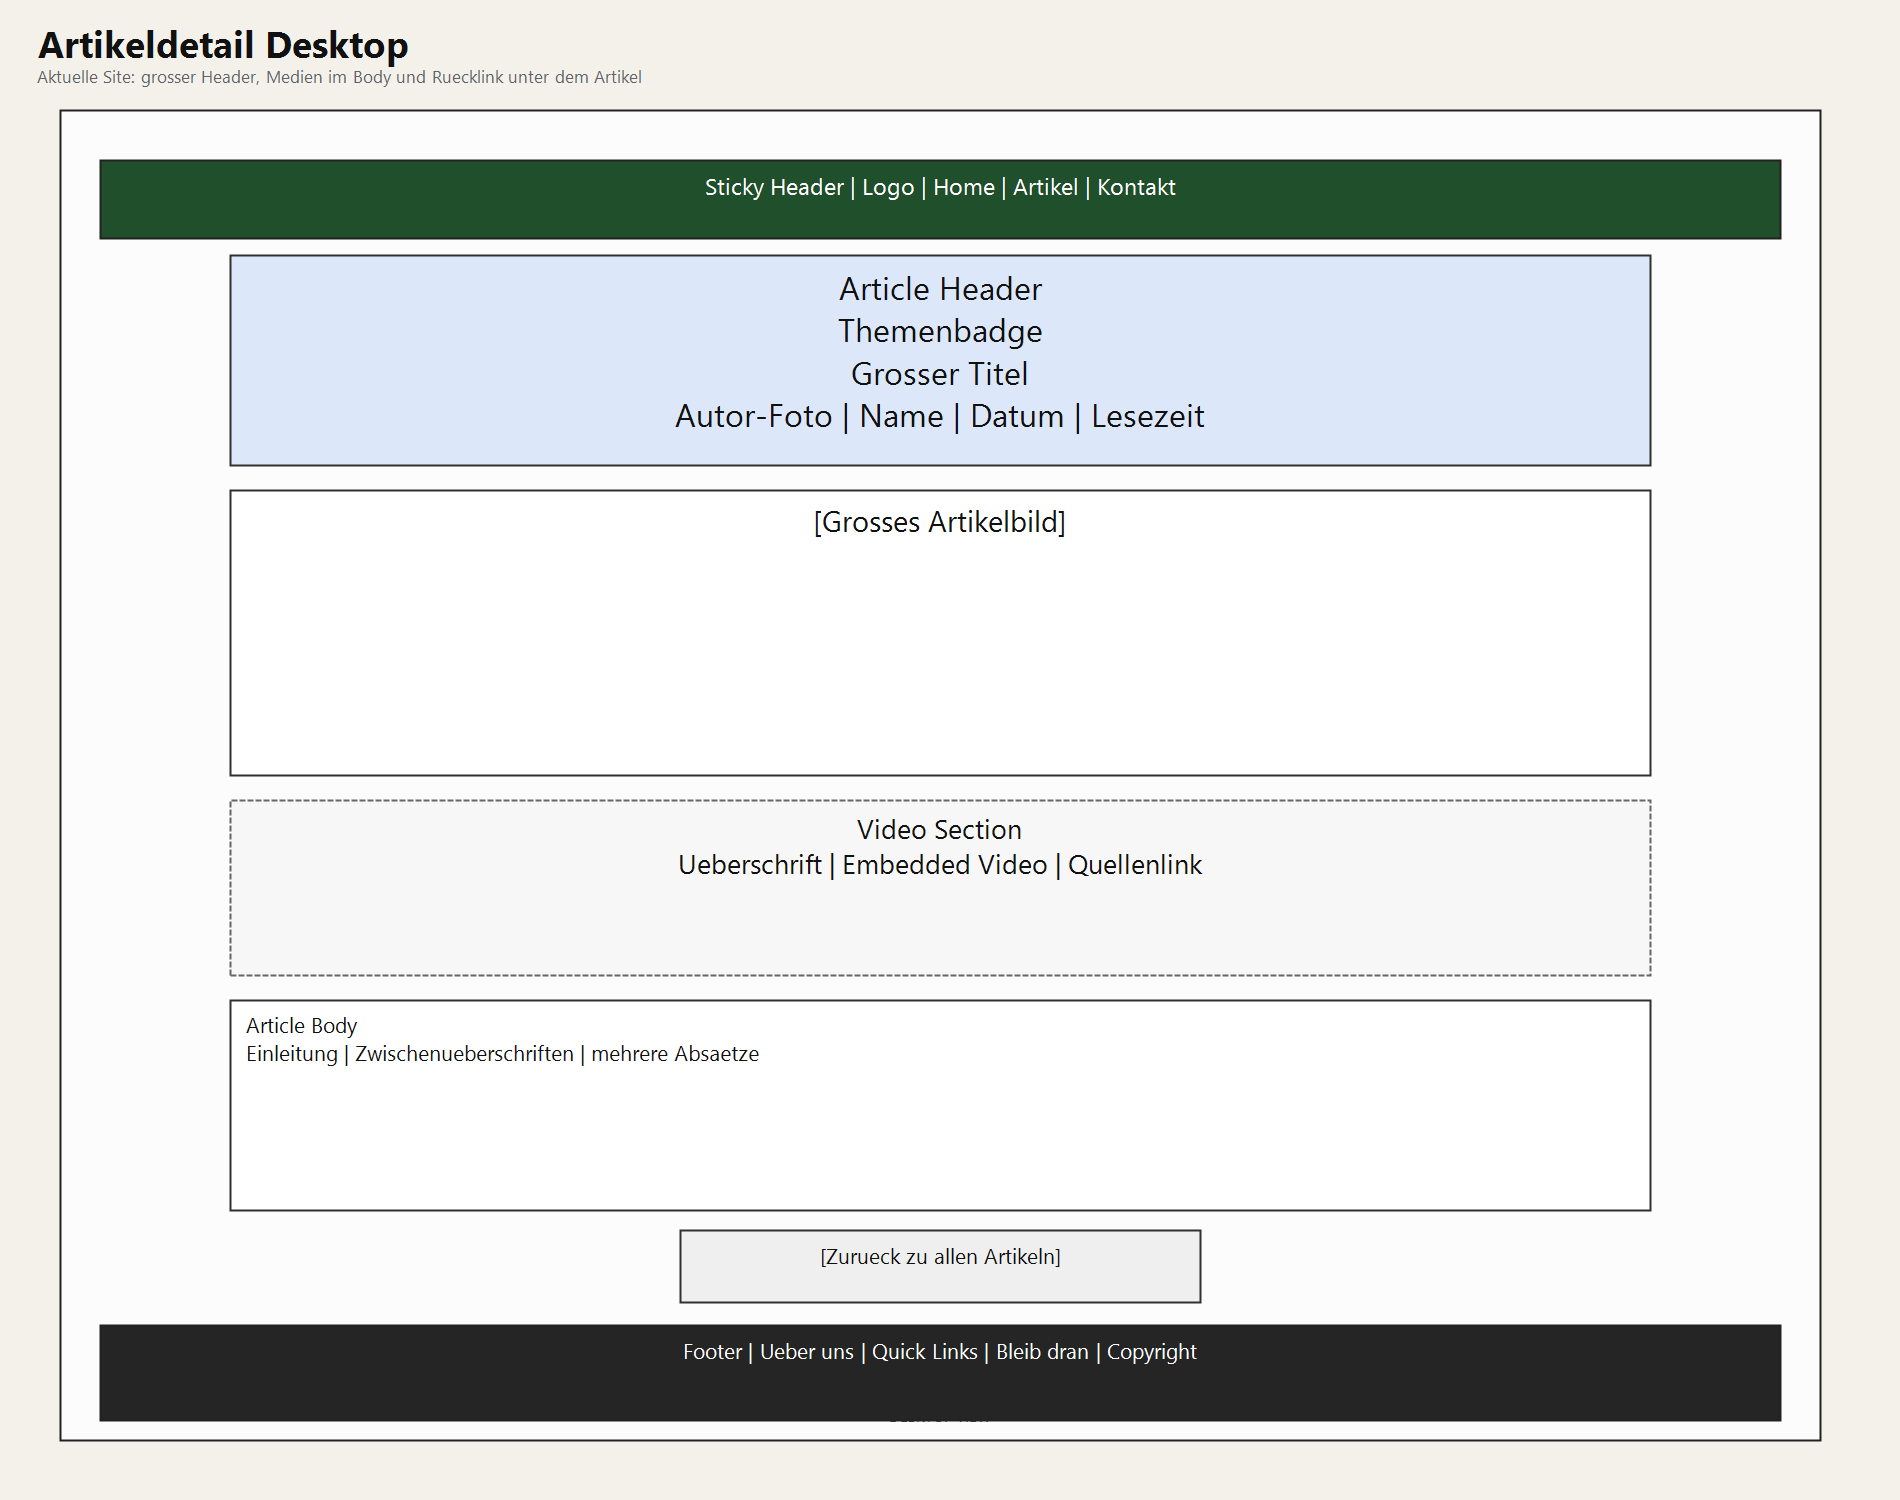
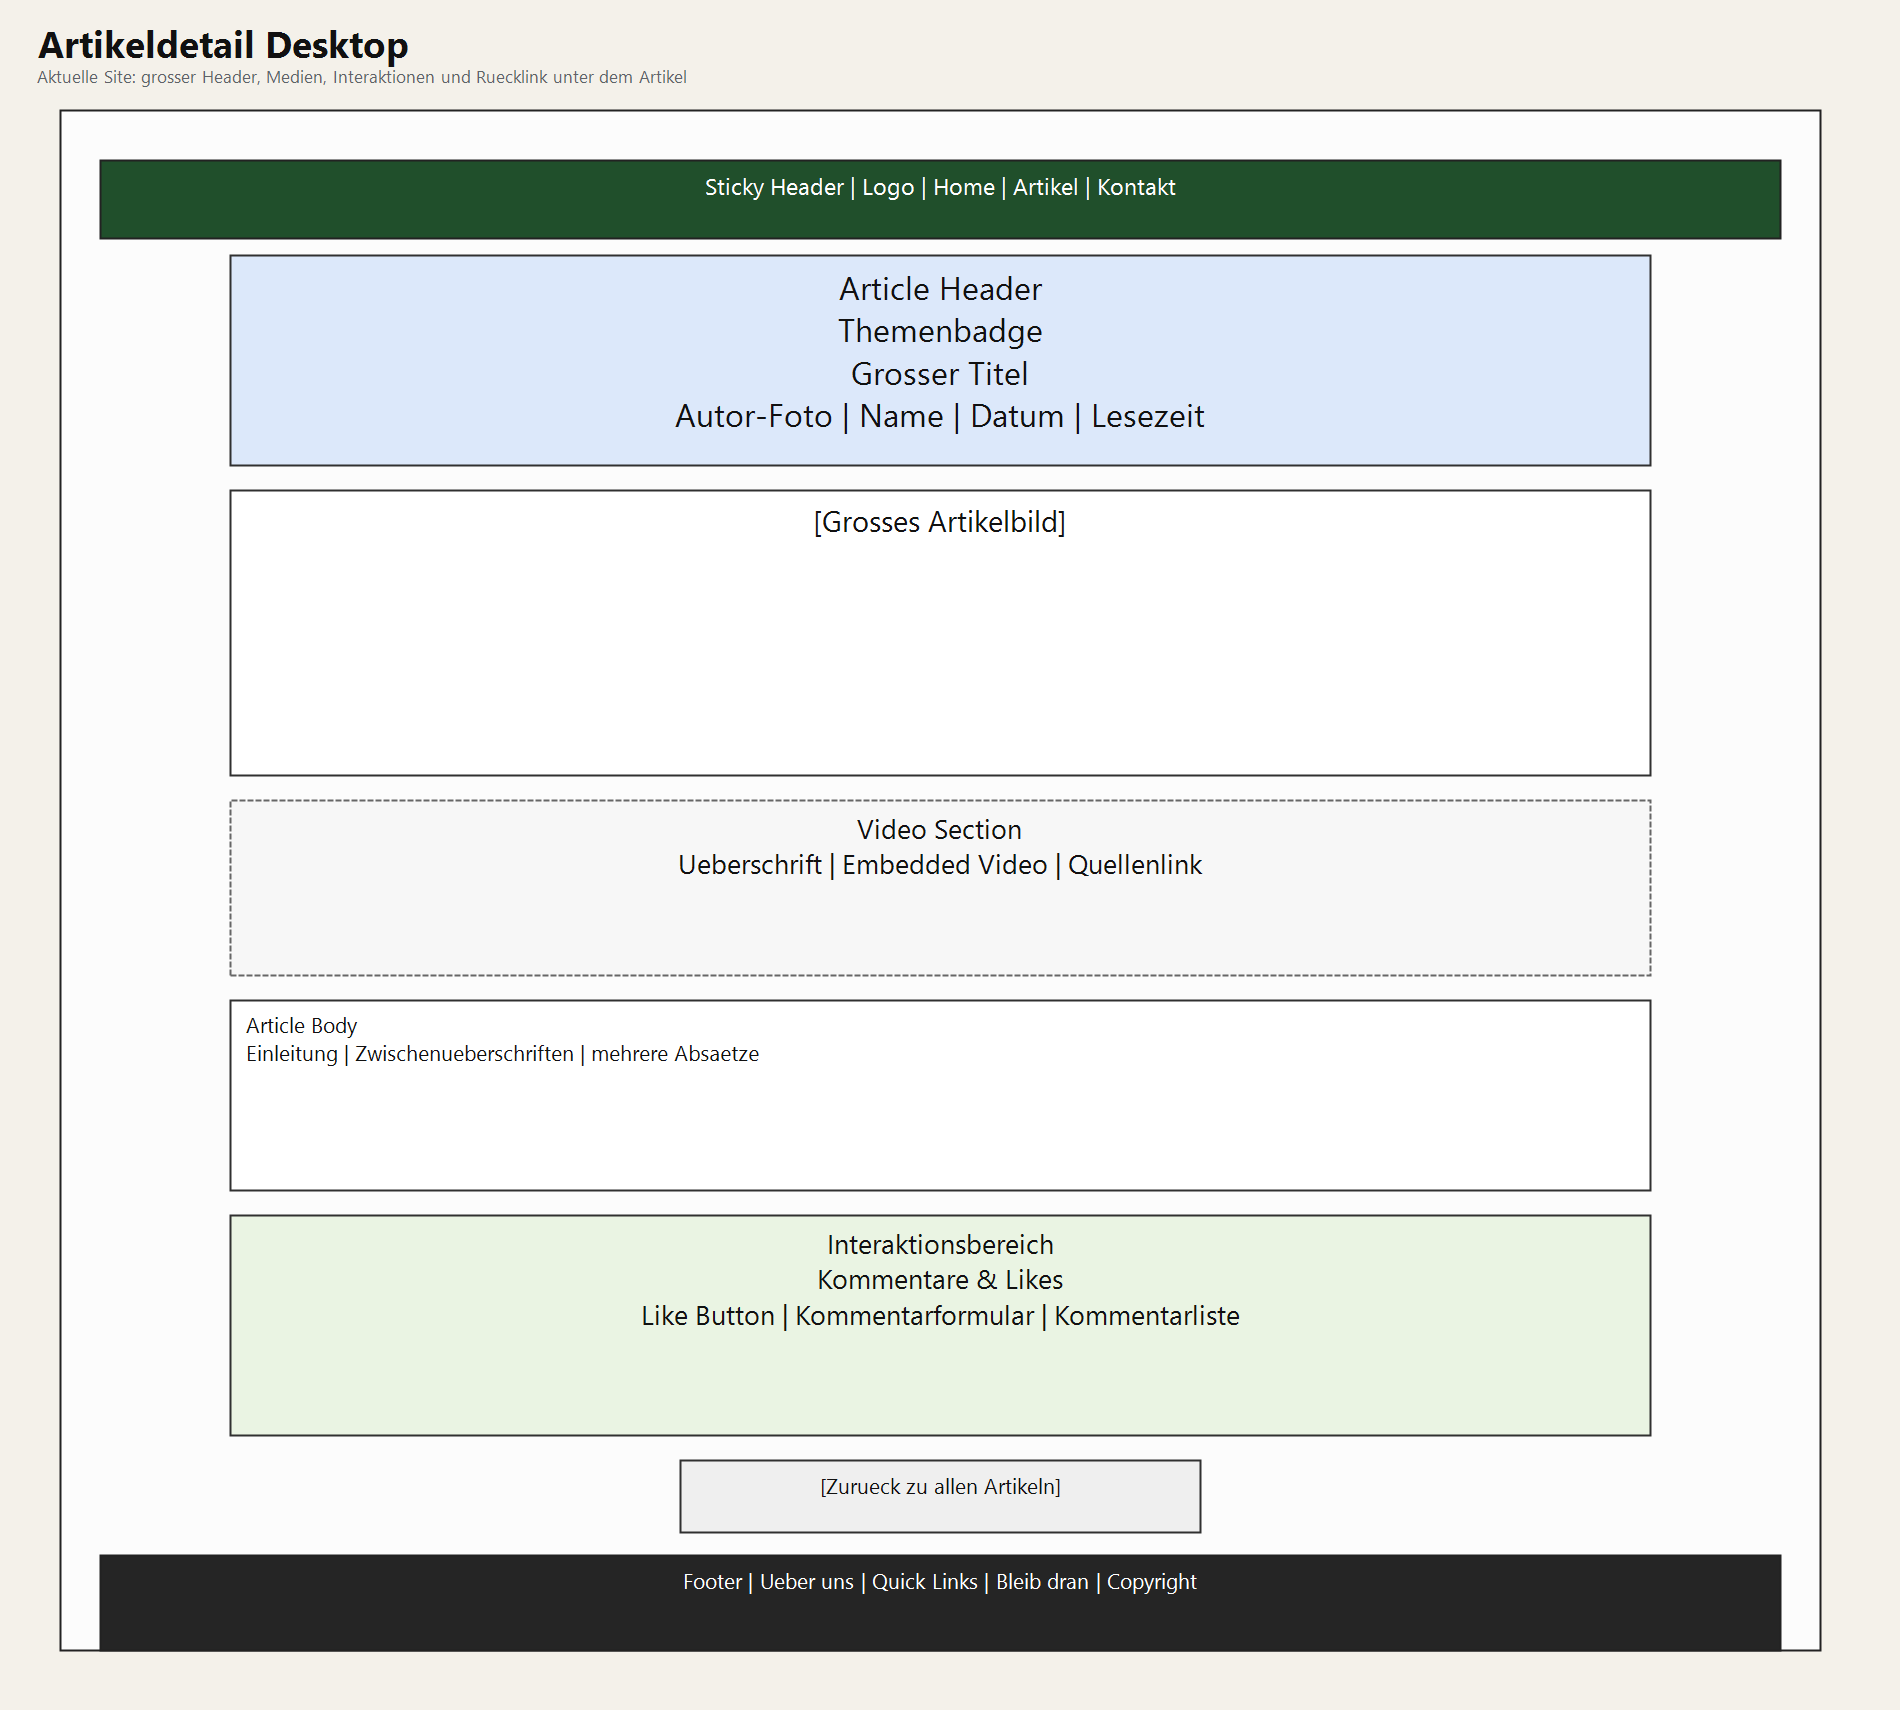
updated Wireframes

diff --git a/Fussball_Blog/WIREFRAMES.md b/Fussball_Blog/WIREFRAMES.md
@@ -4,7 +4,7 @@ Die Wireframes wurden an die aktuell umgesetzte Site angepasst:
 
 - `Startseite` mit zweigeteiltem Hero, Newsletter, Themenkarten und Artikelraster
 - `Artikeluebersicht` mit Hero plus Infopanel, Themenfilter und Kartenraster
-- `Artikeldetailseite` mit grossem Artikel-Header, Bild, Videoabschnitt, Fliesstext und Ruecklink
+- `Artikeldetailseite` mit grossem Artikel-Header, Bild, Videoabschnitt, Fliesstext, Likes, Kommentaren und Ruecklink
 - `Kontaktseite` mit Hero plus Infopanel, Autorenraster sowie Kontaktpanel und Formular
 - responsiv fuer `Mobile`, `Tablet` und `Desktop`
 
@@ -45,7 +45,9 @@ Die Wireframes wurden an die aktuell umgesetzte Site angepasst:
 ### Artikeldetail Mobile
 - kompakter Artikel-Header mit Themenbadge, Titel und Autor:in
 - Artikelbild und eigener Videobereich mit Quellenlink
-- Text in einer klaren Lesespalte mit Ruecklink unterhalb
+- Text in einer klaren Lesespalte
+- Interaktionsbereich mit Like-Button, Kommentarformular und Kommentarliste
+- Ruecklink unterhalb des Interaktionsbereichs
 
 ### Kontaktseite Mobile
 - Hero mit Inhaltsblock und Kontaktpanel
@@ -69,7 +71,9 @@ Die Wireframes wurden an die aktuell umgesetzte Site angepasst:
 ### Artikeldetail Tablet
 - breiter Artikel-Header mit Badge, Titel und Autorblock
 - Bild und Video untereinander
-- Textblock und Ruecklink unterhalb
+- Textblock
+- Interaktionsbereich mit Like-Button, Kommentarformular und Kommentarliste
+- Ruecklink unterhalb
 
 ### Kontaktseite Tablet
 - Hero mit Content links und Kontaktpanel rechts
@@ -95,7 +99,9 @@ Die Wireframes wurden an die aktuell umgesetzte Site angepasst:
 - grosser Artikel-Header als Einstieg in die Detailseite
 - grosses Artikelbild
 - Videoabschnitt unterhalb des Bildes
-- Lesebereich mit Ruecklink unter dem Body
+- Lesebereich im Body
+- Interaktionsbereich mit Likes und Kommentaren unter dem Body
+- Ruecklink unterhalb des Interaktionsbereichs
 
 ### Kontaktseite Desktop
 - zweispaltiger Hero oberhalb des Teams
